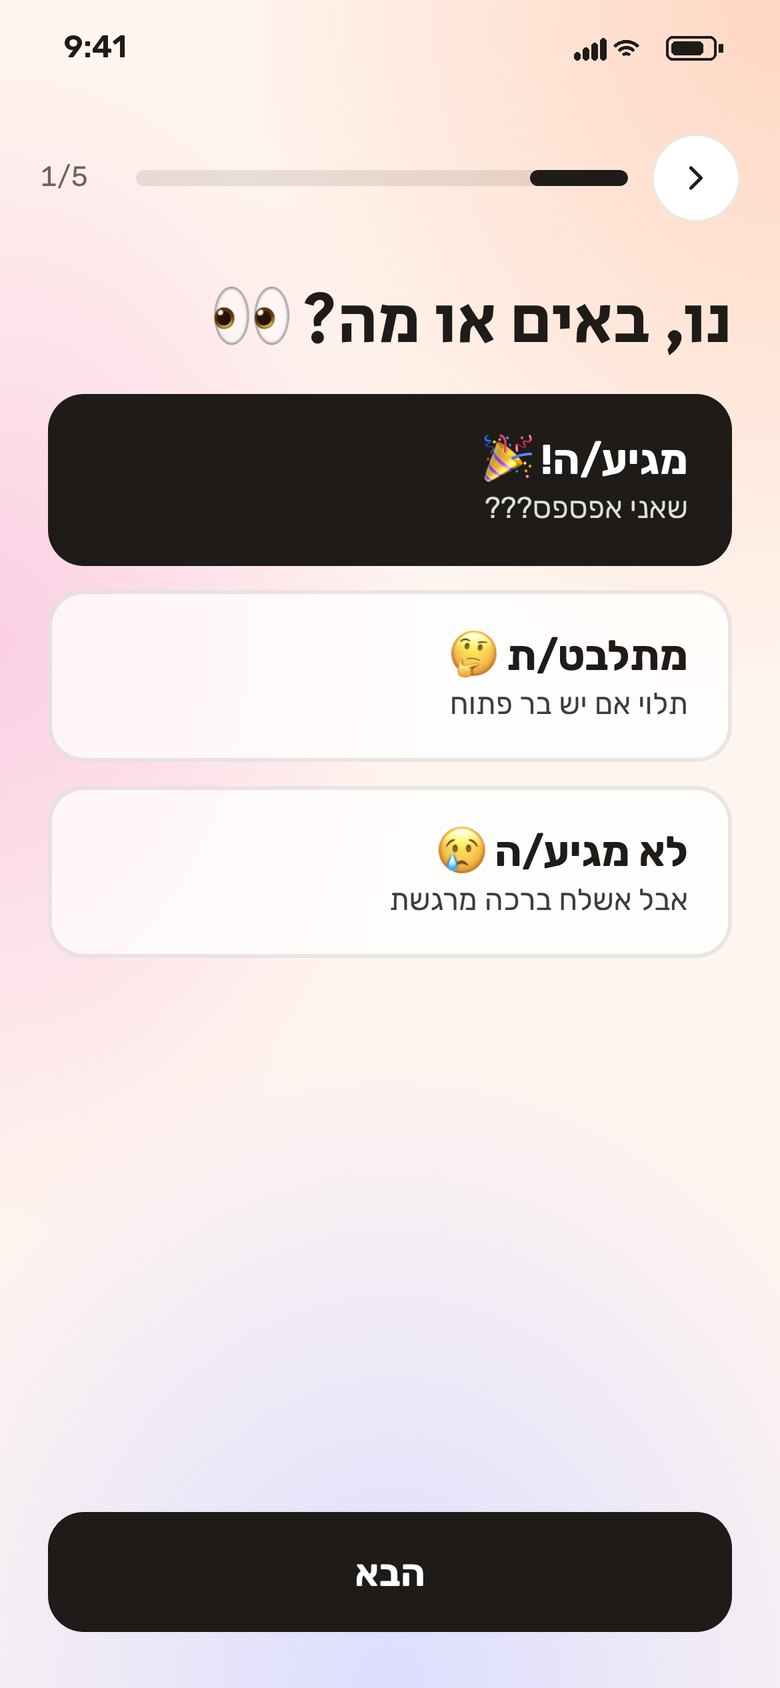
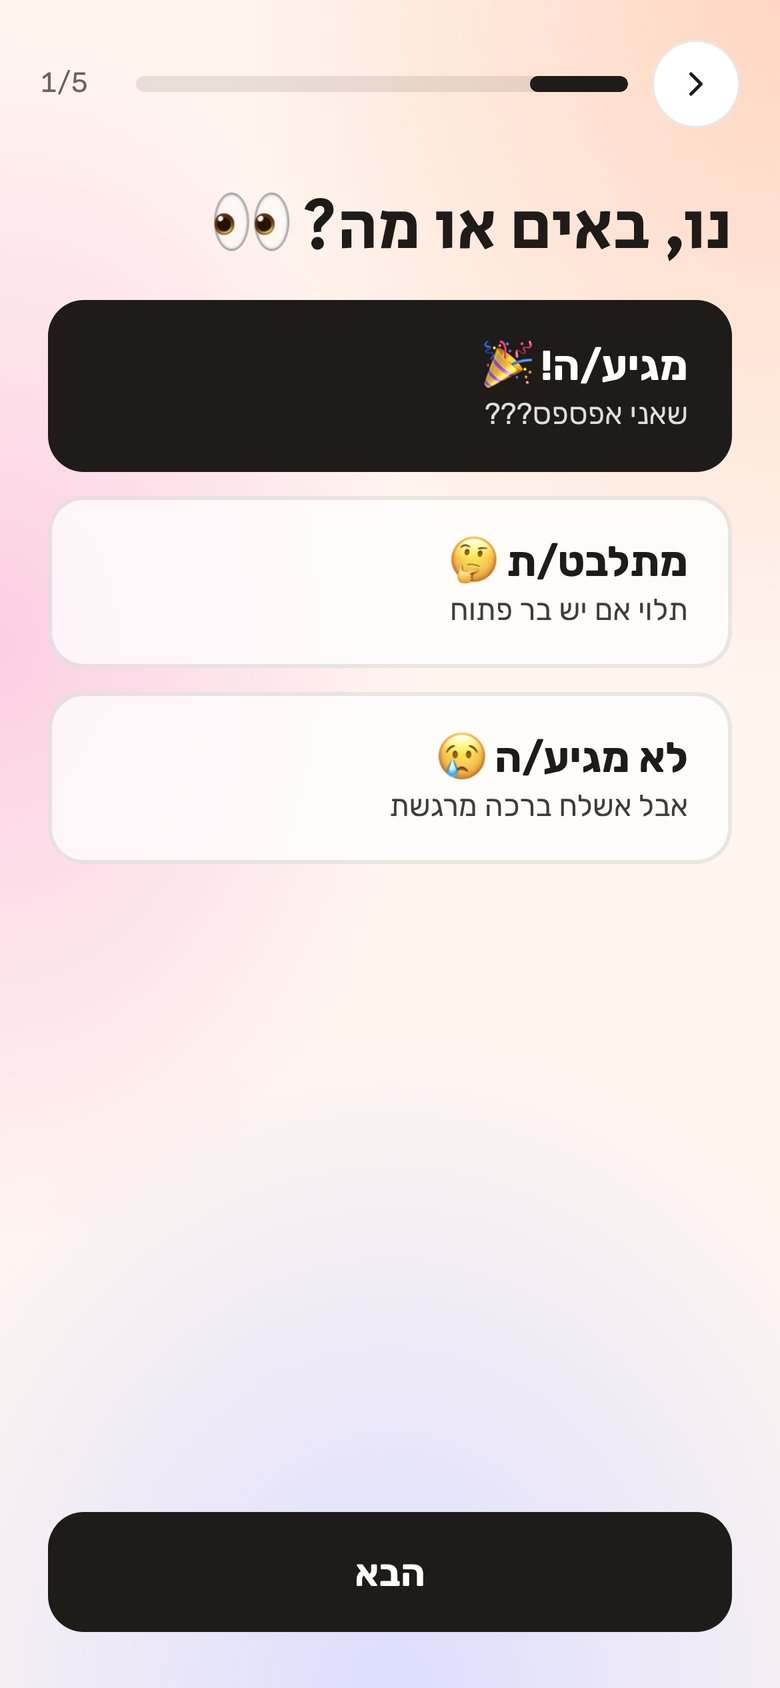
Getting: updated screens, gendered copy, simpler album and Who's here, couple tab rename
Claude-Session: https://claude.ai/code/session_01CtJMhMmNPj9aGCH1E7C3GP

diff --git a/getting.html b/getting.html
@@ -100,7 +100,7 @@ h2 em{font-style:normal;color:var(--pink)}
 .solo{max-width:290px;margin:0 auto;width:100%}
 
 /* voice */
-.voice{display:grid;grid-template-columns:repeat(3,1fr);gap:14px;margin-top:36px}
+.voice{display:grid;grid-template-columns:repeat(2,1fr);gap:14px;margin-top:36px}
 @media(max-width:860px){.voice{grid-template-columns:1fr}}
 .v{background:var(--card);border-radius:20px;padding:22px}
 .v .he{font-family:var(--disp);font-size:22px;direction:rtl;text-align:right;line-height:1.3}
@@ -233,7 +233,7 @@ footer{padding:40px var(--pad) 56px;max-width:1240px;margin:0 auto;display:flex;
   <div class="flow">
    <figure><div class="phone"><img src="media/getting/01-welcome.jpg" alt=""></div><figcaption><b>Welcome</b>Date, venue, the couple</figcaption></figure>
    <figure><div class="phone"><img src="media/getting/02-rsvp.jpg" alt=""></div><figcaption><b>RSVP</b>Coming, maybe, or not</figcaption></figure>
-   <figure><div class="phone"><img src="media/getting/03-name.jpg" alt=""></div><figcaption><b>Who are you</b>Name, phone, +1</figcaption></figure>
+   <figure><div class="phone"><img src="media/getting/03-name.jpg" alt=""></div><figcaption><b>Who are you</b>Name, +1, how to address you</figcaption></figure>
    <figure><div class="phone"><img src="media/getting/04-bus.jpg" alt=""></div><figcaption><b>Shuttle</b>Need a ride?</figcaption></figure>
    <figure><div class="phone"><img src="media/getting/05-fun.jpg" alt=""></div><figcaption><b>The fun part</b>Status, Instagram, fun fact</figcaption></figure>
    <figure><div class="phone"><img src="media/getting/06-photo.jpg" alt=""></div><figcaption><b>Selfie</b>So people find you</figcaption></figure>
@@ -245,8 +245,8 @@ footer{padding:40px var(--pad) 56px;max-width:1240px;margin:0 auto;display:flex;
   <h2>One app, <em>the whole wedding</em></h2>
 
   <div class="feat">
-   <div class="txt"><span class="n">01 — Who's here</span><h3>Meet people at the wedding</h3><p>Guest cards with a fun fact and a status. Singles can choose to show they're open to meeting, and the app suggests a match to say hi to.</p>
-    <ul><li>Filter: everyone, singles, open to offers</li><li>Status is private by default</li><li>A wave or a match, never awkward</li></ul></div>
+   <div class="txt"><span class="n">01 — Who's here</span><h3>Meet people at the wedding</h3><p>Guest cards with a fun fact and a status. Singles can choose to show they're open to meeting, and the app suggests someone to say hi to. I removed the singles and taken filters, so nobody ends up alone in a category.</p>
+    <ul><li>Everyone in one list, no singles section</li><li>Status is private by default</li><li>A wave or a match, never awkward</li></ul></div>
    <div class="solo"><div class="phone"><img src="media/getting/09-who.jpg" alt="Who's here"></div></div>
   </div>
 
@@ -257,8 +257,8 @@ footer{padding:40px var(--pad) 56px;max-width:1240px;margin:0 auto;display:flex;
   </div>
 
   <div class="feat">
-   <div class="txt"><span class="n">03 — The album</span><h3>Everyone's photos, in one place</h3><p>A shared album sorted by time of the event, with a "find me" option that shows the photos you appear in, no more begging friends on WhatsApp.</p>
-    <ul><li>Grouped by moments: chuppah, dancing</li><li>"Find me" via your selfie</li><li>Private photos only for the couple</li></ul></div>
+   <div class="txt"><span class="n">03 — The album</span><h3>Everyone's photos, in one place</h3><p>One shared album with an add-photo button right in the grid, and a "find me" option that shows the photos you appear in, no more begging friends on WhatsApp.</p>
+    <ul><li>One grid, add a photo anytime</li><li>"Find me" via your selfie</li><li>Private photos only for the couple</li></ul></div>
    <div class="solo"><div class="phone"><img src="media/getting/08-album.jpg" alt="Shared album"></div></div>
   </div>
 
@@ -279,13 +279,13 @@ footer{padding:40px var(--pad) 56px;max-width:1240px;margin:0 auto;display:flex;
    <figure><div class="phone"><img src="media/getting/c-home.jpg" alt="Couple dashboard"></div><figcaption><b>Home</b>RSVP status at a glance</figcaption></figure>
    <figure><div class="phone"><img src="media/getting/c-guests.jpg" alt="Guest list"></div><figcaption><b>Guests</b>Filter and nudge who hasn't answered</figcaption></figure>
    <figure><div class="phone"><img src="media/getting/c-shuttles.jpg" alt="Shuttles"></div><figcaption><b>Shuttles</b>Seats per bus, pickup details</figcaption></figure>
-   <figure><div class="phone"><img src="media/getting/c-memories.jpg" alt="Blessings and photos"></div><figcaption><b>Memories</b>Blessings live on screen, all photos</figcaption></figure>
+   <figure><div class="phone"><img src="media/getting/c-memories.jpg" alt="Blessings and photos"></div><figcaption><b>Memories</b>All blessings and guest photos</figcaption></figure>
    <figure><div class="phone"><img src="media/getting/c-after.jpg" alt="After the wedding"></div><figcaption><b>The day after</b>Matches made, photos, a thank-you</figcaption></figure>
   </div>
   <div class="ins">
    <div><span class="k">01</span><h4>One gentle nudge</h4><p>A reminder only goes to people who haven't answered, so the couple never has to chase.</p></div>
    <div><span class="k">02</span><h4>Numbers that stay true</h4><p>Guests update their own RSVP and seat, so the headcount for the venue and the buses is always current.</p></div>
-   <div><span class="k">03</span><h4>Memories, not admin</h4><p>Blessings and guest photos collect in one place and can play live on the screen at the venue.</p></div>
+   <div><span class="k">03</span><h4>Memories, not admin</h4><p>Blessings and guest photos collect in one place, ready to download after the wedding.</p></div>
   </div>
  </section>
 
@@ -295,6 +295,7 @@ footer{padding:40px var(--pad) 56px;max-width:1240px;margin:0 auto;display:flex;
   <div class="voice">
    <div class="v"><div class="he">נו, באים או מה?</div><div class="en">"So… are you coming or what?"</div><div class="why">Instead of "RSVP"</div></div>
    <div class="v"><div class="he">לא הכינוי מהצבא, בבקשה</div><div class="en">"Not your army nickname, please"</div><div class="why">Name field hint</div></div>
+   <div class="v"><div class="he">את בפנים! / אתה בפנים!</div><div class="en">"You're in!", in the guest's own form</div><div class="why">No more את/ה slashes</div></div>
    <div class="v"><div class="he">תלוי אם יש בר פתוח</div><div class="en">"Depends if there's an open bar"</div><div class="why">The "maybe" option</div></div>
   </div>
  </section>
